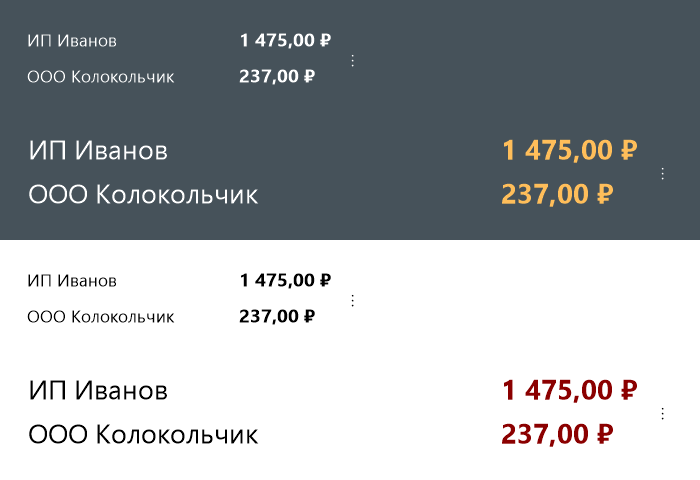
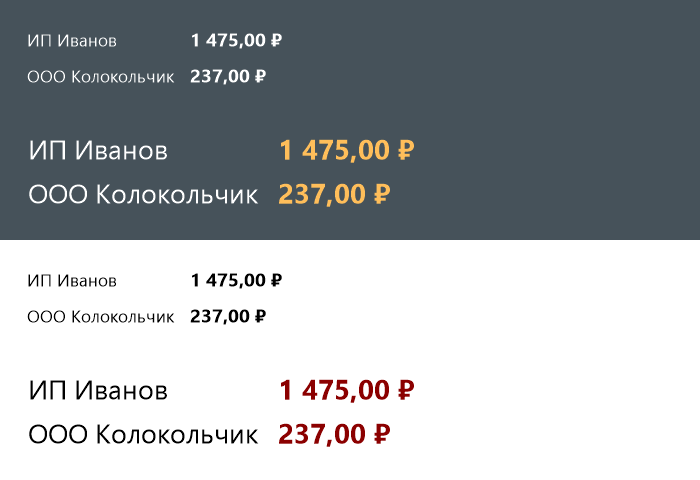
Release 0.2.13: automatic overlay width and a sturdier journal parser
The overlay fits its width to the longest organization name and the resize
grip is gone. A corrupted journal line can no longer end the process, and the
diagnostics log no longer grows without bound.

Retake docs/screenshots/overlay.png on this version: it showed the removed
grip since 0.2.8.

diff --git a/CHANGELOG.md b/CHANGELOG.md
@@ -1,24 +1,22 @@
 # История изменений
 
-## Не выпущено
+## 0.2.13 — 2026-10-15
 
-- Установка обновления откладывается, пока открыто любое окно кроме оверлея: прежний подсчёт открытых форм зависел от того, показан ли оверлей, и при скрытом оверлее перезапуск мог произойти под открытым диалогом.
-- Версия релиза задаётся только параметром `build-release.ps1 -Version`: параметр стал обязательным, запасное значение в `Krs.AcquiringMonitor.iss` заменено ошибкой компиляции. Устаревшую версию больше нельзя проштамповать молча.
-- Убран недостижимый перехват `AccessViolationException` в вызове банковской DLL: аварию внутри неё ограничивает отдельный процесс, а не этот catch. Поведение не изменилось, причина зафиксирована в комментарии.
-- Зафиксированы комментариями два неочевидных инварианта: почему смещение контрольной точки можно уменьшать на длину незавершённой строки (журнал читается как ASCII) и почему устаревшие суммы запрещают установку обновления.
-
-- Запрос статистики (`Command = 7000`) больше не оставляет монитор в состоянии ожидания после прерванной сверки: обновление, названия и автообновление не блокируются до следующей операции по карте. Суммы при этом по-прежнему не обнуляются.
-- Пункты 14 и 15 поправки фиксируют расхождения дизайн-документов с кодом: обнуление одним успешным закрытием и флаги установщика при тихом обновлении.
-
-- Загрузка установщика ограничена 32 МБ: повреждённый или подменённый ответ больше не может заполнить диск кассы до проверки хеша.
-- Манифест обновления снова принимает неизвестные поля: новое поле в `update.json` не ослепит уже установленные копии. Имя файла и ссылка по-прежнему строятся из версии, установщик по-прежнему проверяется по `sha256`.
-
-- Повреждённая или оборванная строка журнала UPOS больше не может завершить программу. Разбор перестал бросать исключения: нечитаемое число пропускается, нечитаемый результат операции не оставляет её ожидающей до конца смены, а абсурдная сумма отбрасывается вместо переполнения итога. Раньше такая строка вылетала из таймера монитора, где исключение не перехватывалось.
-- Журнал диагностики больше не растёт без границ. Повторяющаяся ошибка пишется не чаще раза в пять минут, а файл при достижении мегабайта уезжает в `diagnostics.log.1`; на диске остаётся не более двух файлов. Раньше недоступная папка UPOS давала около 86 тысяч одинаковых строк в сутки без ротации.
 - Ширина оверлея подбирается автоматически под самое длинное название организации, без обрезания и многоточия, в границах 200–1600 пикселей. Ручной ввод ширины в настройках выключает автоподбор; заданное значение держится до изменения состава организаций — появления, исчезновения или переименования любой из них, — после чего автоподбор возобновляется. Поле ширины в настройках показывает текущую ширину оверлея.
 - Убран край ⋮ для изменения ширины в правой части оверлея. Ширина задаётся только полем в настройках (200–1600 пикселей), сохранённая ширина и её смысл не меняются: оверлей той же ширины, что и раньше. Перетаскивание за название и двойной щелчок по сумме работают по-прежнему.
 - README, подпись в настройках и чек-лист приёмки приведены в соответствие: пунктов про перетягивание правого края больше нет.
-- Отложено: `docs/screenshots/overlay.png` снят на 0.2.8 и всё ещё показывает край ⋮. Скриншот нужно переснять на кассе перед следующим релизом.
+- Повреждённая или оборванная строка журнала UPOS больше не может завершить программу. Разбор перестал бросать исключения: нечитаемое число пропускается, нечитаемый результат операции не оставляет её ожидающей до конца смены, а абсурдная сумма отбрасывается вместо переполнения итога. Раньше такая строка вылетала из таймера монитора, где исключение не перехватывалось.
+- Журнал диагностики больше не растёт без границ. Повторяющаяся ошибка пишется не чаще раза в пять минут, а файл при достижении мегабайта уезжает в `diagnostics.log.1`; на диске остаётся не более двух файлов. Раньше недоступная папка UPOS давала около 86 тысяч одинаковых строк в сутки без ротации.
+- Запрос статистики (`Command = 7000`) больше не оставляет монитор в состоянии ожидания после прерванной сверки: обновление, названия и автообновление не блокируются до следующей операции по карте. Суммы при этом по-прежнему не обнуляются.
+- Загрузка установщика ограничена 32 МБ: повреждённый или подменённый ответ больше не может заполнить диск кассы до проверки хеша.
+- Манифест обновления снова принимает неизвестные поля: новое поле в `update.json` не ослепит уже установленные копии. Имя файла и ссылка по-прежнему строятся из версии, установщик по-прежнему проверяется по `sha256`.
+- Установка обновления откладывается, пока открыто любое окно кроме оверлея: прежний подсчёт открытых форм зависел от того, показан ли оверлей, и при скрытом оверлее перезапуск мог произойти под открытым диалогом.
+- Убран недостижимый перехват `AccessViolationException` в вызове банковской DLL: аварию внутри неё ограничивает отдельный процесс, а не этот catch. Поведение не изменилось, причина зафиксирована в комментарии.
+- Версия релиза задаётся только параметром `build-release.ps1 -Version`: параметр стал обязательным, запасное значение в `Krs.AcquiringMonitor.iss` заменено ошибкой компиляции. Устаревшую версию больше нельзя проштамповать молча.
+- Зафиксированы комментариями два неочевидных инварианта: почему смещение контрольной точки можно уменьшать на длину незавершённой строки (журнал читается как ASCII) и почему устаревшие суммы запрещают установку обновления.
+- Пункты 14 и 15 поправки фиксируют расхождения дизайн-документов с кодом: обнуление одним успешным закрытием и флаги установщика при тихом обновлении.
+
+Скриншот оверлея переснят на этой версии. Проверено: 95 тестов и сборка x86 Release; приёмка на кассе по `docs/ACCEPTANCE-CHECKLIST.md` выполняется отдельно. Банковские данные не включены в репозиторий или сборки.
 
 ## 0.2.12 — 2026-09-08
 

diff --git a/docs/releases/v0.2.13.md b/docs/releases/v0.2.13.md
@@ -1,0 +1,29 @@
+# KRS Эквайринг Монитор 0.2.13
+
+Оверлей сам подбирает ширину под название организации, а разбор журнала и диагностика стали устойчивее.
+
+Ширина теперь ровно такая, чтобы название не обрезалось; край ⋮ для растягивания убран — ширина задаётся полем в настройках. Введённое вручную значение держится до изменения состава организаций. Повреждённая строка журнала UPOS больше не может завершить программу, а журнал диагностики перестал расти без границ.
+
+## Что изменилось
+
+- Автоподбор ширины в границах 200–1600 пикселей. Ручной ввод выключает его до появления, исчезновения или переименования организации.
+- Край ⋮ убран. Сохранённая ширина даёт тот же оверлей, что и раньше; перетаскивание за название и двойной щелчок по сумме работают по-прежнему.
+- Повреждённая или оборванная строка журнала пропускается вместо аварийного завершения: нечитаемый результат не оставляет операцию ожидающей до конца смены, абсурдная сумма не переполняет итог.
+- Диагностика: повторяющаяся ошибка пишется не чаще раза в пять минут, файл уезжает в `diagnostics.log.1` на мегабайте. Раньше недоступная папка UPOS давала около 86 тысяч одинаковых строк в сутки.
+- Запрос статистики (`7000`) после прерванной сверки больше не блокирует обновление сумм и автообновление до следующей операции по карте. Суммы он по-прежнему не обнуляет.
+- Загрузка установщика ограничена 32 МБ, манифест `update.json` снова принимает неизвестные поля — будущее поле не ослепит установленные копии. Имя файла и ссылка строятся из версии, установщик проверяется по `sha256`.
+- Установка откладывается, пока открыто любое окно кроме оверлея.
+
+## Как обновиться
+
+Установленные копии проверяют обновления каждые 6 часов; проверку можно запустить сразу через трей → «Проверить обновление программы…». Установка ждёт безопасной паузы: без незавершённых операций, с доступным журналом и закрытыми окнами. Portable-копия обновляется вручную.
+
+Настройки, положение, оформление и автозапуск сохраняются. Удалять журналы или выполнять «Сброс данных» не нужно.
+
+## Проверки и файлы
+
+- 95 тестов пройдены, сборка x86 Release без предупреждений. Добавлены проверки повреждённой строки журнала, переполнения итога, ротации диагностики и автоподбора ширины.
+- Приёмка на кассе по `docs/ACCEPTANCE-CHECKLIST.md` в этот релиз не входит и выполняется отдельно.
+- Банковские данные, журналы и настройки в репозиторий и сборки не включены.
+- `KRS-AcquiringMonitor-0.2.13-setup.exe` — рекомендуемый установщик.
+- `KRS-AcquiringMonitor-0.2.13-win-x86.zip` — portable-сборка.

diff --git a/docs/ACCEPTANCE-CHECKLIST.md b/docs/ACCEPTANCE-CHECKLIST.md
@@ -4,7 +4,7 @@
 
 ## Установка
 
-Проверка версии 0.2.12:
+Проверка версии 0.2.13:
 
 - [ ] Иконка видна в EXE, трее, ярлыке меню «Пуск» и установщике.
 - [ ] «Обновить суммы» запрашивает отчёт; «Проверить обновление программы…» проверяет релиз без запроса к терминалу.
@@ -14,7 +14,7 @@
 - [ ] Диагностика объясняет состояние Frontol и журнала, копируется без банковских данных; при переходе к трею последняя причина Frontol остаётся доступной.
 - [ ] Без сохранённой ширины используется 370; ранее настроенная ширина не меняется. Сброс данных не сбрасывает оформление и не удаляет банковские файлы.
 
-- [ ] Установщик 0.2.12 запущен поверх предыдущей установленной версии в спокойное время; перед установкой монитор закрыт через трей.
+- [ ] Установщик 0.2.13 запущен поверх предыдущей установленной версии в спокойное время; перед установкой монитор закрыт через трей.
 - [ ] После обновления сохранились настройки, суммы и автозапуск; приложение снова запустилось.
 - [ ] Выбрана существующая папка UPOS/SC552, а не её копия внутри приложения.
 - [ ] В папке видны pilot_nt.dll, pinpad.ini и актуальный sbkernelYYMM.log.
@@ -95,7 +95,7 @@
 ## Обновление
 
 - [ ] Portable-копия не выполняет автоматическое обновление.
-- [ ] После установки 0.2.12 сохраняются настройки и автозапуск, суммы восстановлены по журналу; при переходе со старой версии без цветов они остаются белым и янтарным, шрифт — Segoe UI с выделенными суммами.
+- [ ] После установки 0.2.13 сохраняются настройки и автозапуск, суммы восстановлены по журналу; при переходе со старой версии без цветов они остаются белым и янтарным, шрифт — Segoe UI с выделенными суммами.
 - [ ] Касса с устаревшими суммами в 0.2.11 обновлена вручную поверх существующей версии: старая версия в этом состоянии не запускает автоустановку. Журналы и настройки не удалялись.
 - [ ] При наличии следующего релиза проверка выполняется без перезапуска программы через 6 часов.
 - [ ] Загрузка не прерывает кассовую работу; установка ждёт 30 секунд без операций, запросов и открытых окон приложения.
